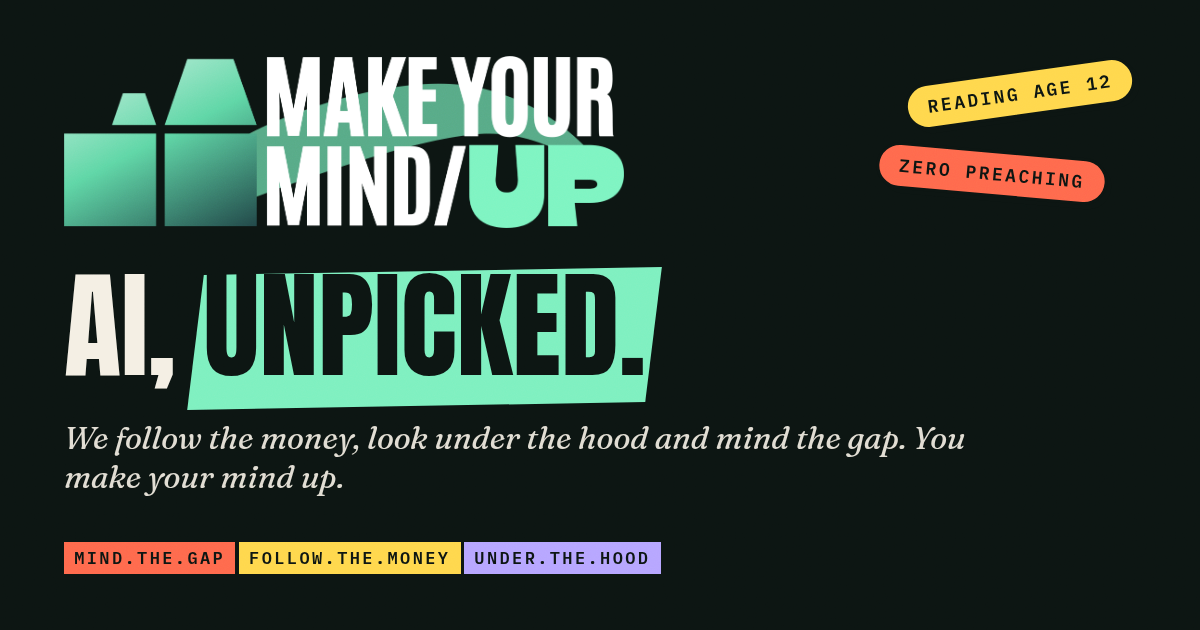
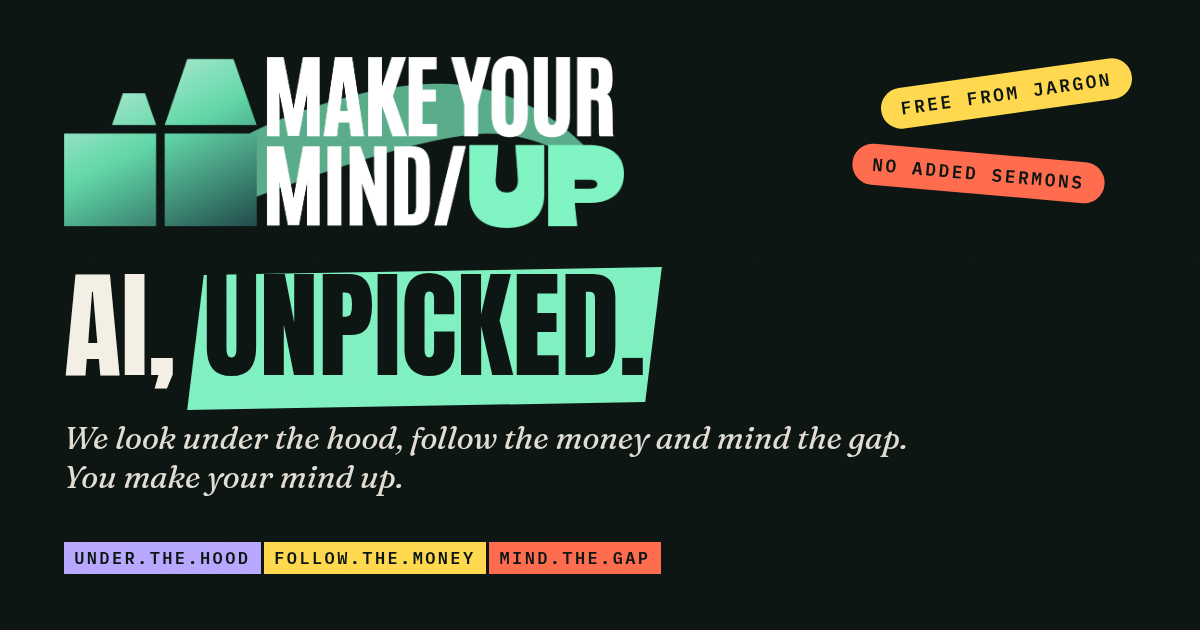
Cover and Substack kit: Monday first, new house rules, paid-tier copy
The three subchannels now run in publishing order everywhere: the
spreads, contents, cover lines, marquee, tagline, About page, alt text
and the kit images. under.the.hood leads, follow.the.money sits in the
middle, mind.the.gap closes. Page numbers follow the order.

"Reading age 12" and "Zero preaching" leave reader-facing copy. The
stickers and marquee read "Free from jargon" and "No added sermons";
the staff box reads "Jargon: Translated on arrival" and "Sermons: None.
A machine checks." The internal reading-age standard is unchanged.

PAID.md carries the paid and founding welcome emails and the
subscription benefits, drafted from the media kit's paid tier. On
2026-09-25 Substack's default benefits were live and told free readers
they get "Occasional public posts".

Ruling (Krish, 2026-09-25): the subchannels run Monday, Wednesday, Friday everywhere, under.the.hood first.
Ruling (Krish, 2026-09-25): no "Reading age 12" or "Zero preaching" in reader-facing copy.

Claude-Session: https://claude.ai/code/session_01MU767pkzwZzQ89ZBvHPrKb

Changed region(s): [[0.0308, 0.6635, 0.8017, 0.7841], [0.0308, 0.8444, 0.555, 0.9349], [0.7092, 0.0905, 0.925, 0.3317]]

diff --git a/apps/cover/substack-kit/COPY.md b/apps/cover/substack-kit/COPY.md
@@ -6,21 +6,21 @@ makeyourmindup
 
 ## Short description
 
-We follow the money, look under the hood and mind the gap. You make your mind up.
+We look under the hood, follow the money and mind the gap. You make your mind up.
 
 ## About page
 
 We unpick how AI really works, in plain English, three times a week.
 
-**mind.the.gap, every Friday.** Most weeks, a pile of AI stories look like they have nothing to do with each other. We lay the threads side by side, show where they cross, and put a date on what we think happens next.
+**under.the.hood, every Monday.** We open up something that shipped and actually works. Every part gets a stamp, real or theatre, so you can see what does the work and what is there for the launch video.
 
 **follow.the.money, every Wednesday.** Every AI deal has a bill, and somebody pays it. We trace the money from the invoice to the bank account, and show who comes out ahead and who gets stuck with the tab.
 
-**under.the.hood, every Monday.** We open up something that shipped and actually works. Every part gets a stamp, real or theatre, so you can see what does the work and what is there for the launch video.
+**mind.the.gap, every Friday.** Most weeks, a pile of AI stories look like they have nothing to do with each other. We lay the threads side by side, show where they cross, and put a date on what we think happens next.
 
 **Every piece makes a call.** It ends with a prediction, a date and how sure we are. When the date arrives, we mark it held, broke or unclear. Misses go up as big as hits.
 
-**The house rules.** Reading age 12. Zero preaching. Every number names whoever produced it. British spelling throughout.
+**The house rules.** Plain English. If jargon sneaks in, we translate it on the spot. No sermons: we show our working, and you make your mind up. Every number names whoever produced it. British spelling, obviously.
 
 **Who makes it.** Krish Raja writes every piece, reads the audio edition and fronts the Shorts. A blind panel of AI judges checks every draft, then Krish makes the final call.
 
@@ -44,4 +44,4 @@ Editor of makeyourmindup. Sixteen years building commercial businesses across me
 
 ## Image alt text
 
-The makeyourmindup logo above the line "AI, unpicked", with the three sections: mind.the.gap, follow.the.money and under.the.hood.
+The makeyourmindup logo above the line "AI, unpicked", with the three sections: under.the.hood, follow.the.money and mind.the.gap.

diff --git a/apps/cover/substack-kit/PAID.md b/apps/cover/substack-kit/PAID.md
@@ -1,0 +1,52 @@
+---
+kill_list_scope: paid_tier
+---
+# Paid-tier copy, ready to paste
+
+This is the one place CTRL may be named: CTRL beta access in the paid tier is
+the only permitted connection between the channel and mind/make. The kill list
+still runs every other rule on this file.
+
+## Welcome email to paid subscribers
+
+Subject: Thank you, properly.
+
+Every written piece on makeyourmindup is free, and it stays free. So you have just paid for something you could have read for nothing. Thank you. That is a real vote of confidence, and I don't take it lightly.
+
+Here is what your subscription gets you:
+
+- Beta access to CTRL, the AI product I'm building.
+- The diagrams and artifacts from every piece, as files you can take and reuse.
+- The audio and video editions.
+- A live session with me, once a month.
+- The full Resources library.
+- The verdict archive: every call we have made, and how each one landed.
+
+A few of these are still at the printers. Each one lands in your inbox the day it is ready.
+
+In the spirit of follow.the.money, here is where your money goes. It pays the running costs of the machinery behind this, so the machines do the grind and I get to spend my time on the thinking and the writing.
+
+One favour: hit reply and tell me what you want taken apart first. I read every reply.
+
+Krish
+
+## Welcome email to founding subscribers
+
+The paid email above, with this line added straight after the first paragraph:
+
+You went founding member, which means you paid more than you had to. Thank you twice.
+
+## Subscription benefits (Settings, Payments)
+
+Free:
+
+- Every written piece, in full
+- under.the.hood on Mondays, follow.the.money on Wednesdays, mind.the.gap on Fridays
+
+Paid:
+
+- Beta access to CTRL
+- Diagrams and artifacts as files you can reuse
+- The audio and video editions
+- A monthly live session with Krish
+- The full Resources library and the verdict archive

diff --git a/apps/cover/substack-kit/README.md b/apps/cover/substack-kit/README.md
@@ -4,9 +4,9 @@ kill_list_scope: canon
 # Substack refresh kit
 
 Everything the Substack needs to match the cover. Nothing here posts itself:
-Krish pastes it in. The copy lives in `COPY.md`, which the kill list scans
-(`npm run kill-list`). This README is marked canon because it quotes the old
-tagline in order to remove it.
+Krish pastes it in. The copy lives in `COPY.md`, and the paid-tier copy in
+`PAID.md`, both scanned by the kill list (`npm run kill-list`). This README is
+marked canon because it quotes the old tagline in order to remove it.
 
 ## Why it exists
 
@@ -60,11 +60,15 @@ website editor at `https://mindmakerlive.substack.com/publish/website-editor/hom
    About section of `COPY.md`.
 5. Settings, Emails, Edit next to Email header & footer: upload the banner,
    then send a test email.
-6. Settings, Emails, Edit next to Welcome email to free subscribers: the
-   welcome email in `COPY.md`. Leave the paid, imported and founding ones.
-7. `https://substack.com/profile/edit`, Bio: the profile bio in `COPY.md`. This
+6. Settings, Emails, Edit next to each welcome email: free from `COPY.md`,
+   paid from `PAID.md`, and founding as paid plus its extra line (Substack
+   sends founding members the paid email by default). Leave the imported one.
+7. Settings, Payments, Subscription benefits: the lists in `PAID.md`. On
+   2026-09-25 Substack's defaults were live, promising free readers only
+   "Occasional public posts", which contradicts the cover.
+8. `https://substack.com/profile/edit`, Bio: the profile bio in `COPY.md`. This
    is where the 30 Under 30 and themindmaker.ai lines live.
-8. Leave the old posts where they are. The cover only lists posts published on
+9. Leave the old posts where they are. The cover only lists posts published on
    or after the relaunch date in `content/config.json`.
 
 ## Custom domain
